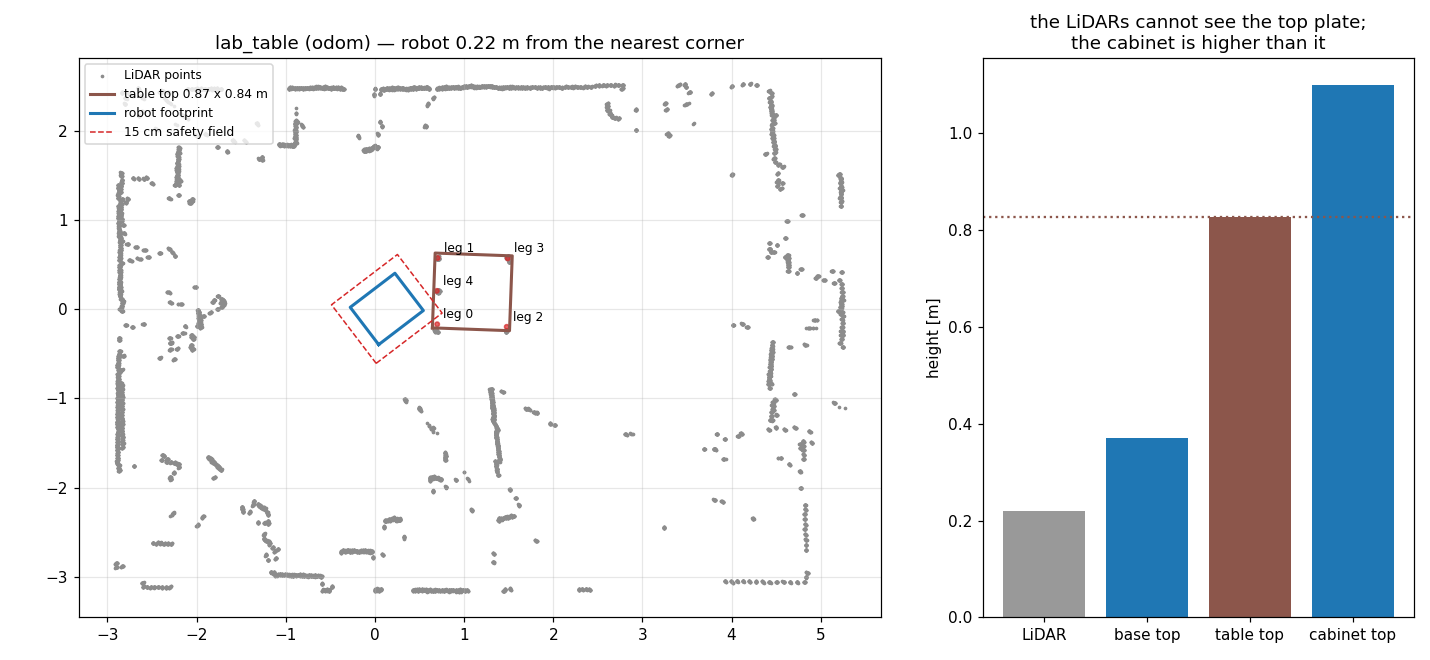
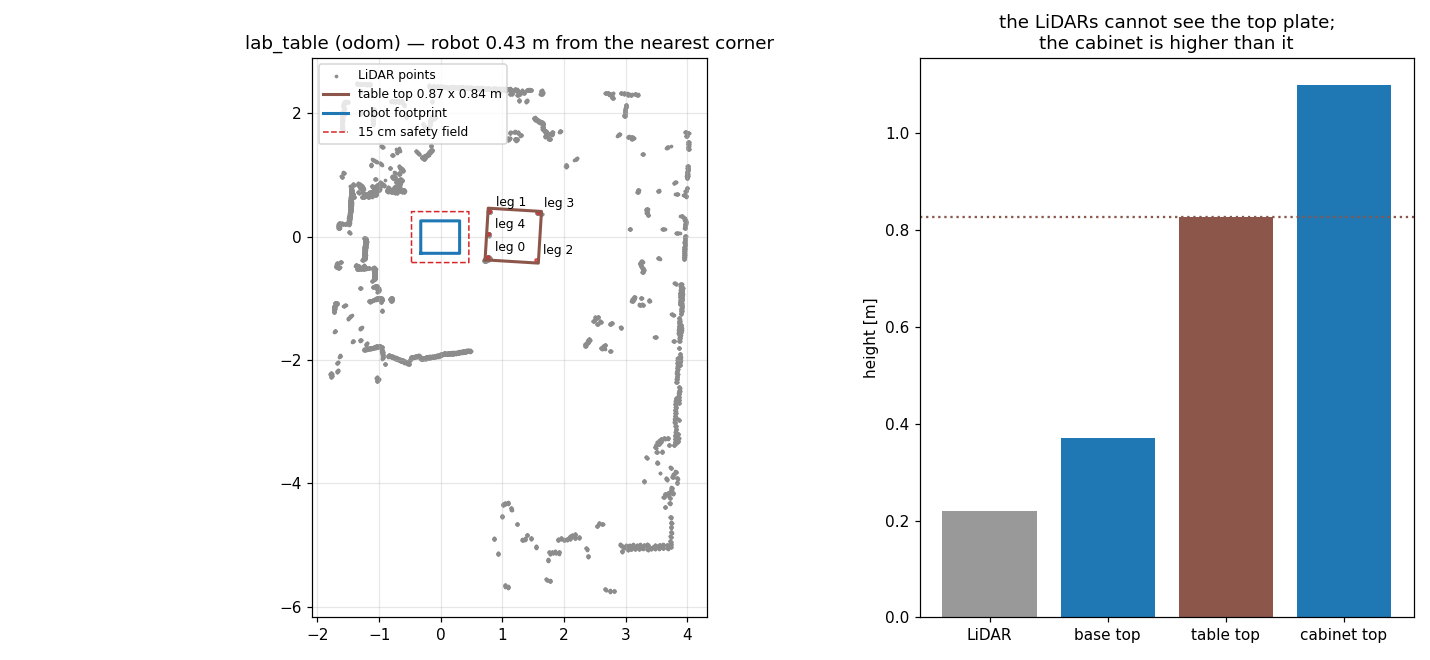
Explore the table from the launch, search sides on the move, plan once the motion is known
- active_perception_wbc (--approach move): the camera looks at the table from the start (centre from
  afar, swept across it when close); nothing found on arrival -> drive on to the next side, exploring;
  found while driving around -> plan from there; the grasp side is chosen once static/rolling is known,
  from the object's predicted position when the robot gets there
- detections fit the velocity also while the camera hardly turns (visibility task on the object)
- camera_only tool (MuJoCo): plate + post + D415 as in the photos
- lab_table: measured 2026-10-22

diff --git a/src/steve_wbc/steve_wbc/active_perception_wbc.py b/src/steve_wbc/steve_wbc/active_perception_wbc.py
@@ -163,6 +163,14 @@ REACH_LEAD = 3.0              # s  reach on the move: the arm starts this long b
 ORBIT_STATES = ("PRE_GRASP", "DESCEND", "GRASP", "AT_GRASP")   # states that keep tracking the base path
 PLAN_SPAN = 0.5               # s  --approach move: object tracked this long before the grasp is planned
 APPROACH_MIN = 0.05           # m  --approach move: base this far from the grasp side's stand-off -> straight path
+MOTION_WAIT = 3.0             # s  --approach move: plan at the latest this long after --plan_span even if the
+                              #    tracker has no motion estimate yet (normally it has: static or rolling)
+MOVE_GRASP_ETA = 2.0          # s  --approach move: from the end of the base path to the grasp (arm on the move)
+# exploration (--approach move, nothing seen yet): the camera looks at the table from the launch on — its
+# centre from afar (the whole table in view), swept across it once the base is this close to the centre
+EXPLORE_NEAR = 1.4            # m
+EXPLORE_PERIOD = 8.0          # s  one sweep left-right-left (arm speed limits on the robot: 0.3 rad/s)
+CAM_STILL_W = 0.15            # rad/s camera turning slower than this: detections may fit the velocity
 # states in which the robot looks / waits instead of going for the object (--approach move avoids them)
 STOP_STATES = ("SETTLE_ARM", "COARSE_DETECT", "VGN_SCAN", "VGN_WAIT")
 
@@ -950,6 +958,7 @@ class ObjectTracker:
         self.p, self.v, self.t = None, np.zeros(3), None
         self.hist = []
         self.rejected = 0
+        self.fitted = False  # the velocity has been fitted at least once (static or moving is known)
 
     def update(self, p, t, still=True):
         """Add a detection. `still`: taken while the camera was (nearly) still. Every detection
@@ -959,7 +968,7 @@ class ObjectTracker:
         if self.t is not None and t - self.t > self.WINDOW:
             # not confirmed for a whole fit window (occluded, or the robot drove elsewhere):
             # the old estimate is stale, start a fresh track instead of gating against it
-            self.p, self.v, self.hist = None, np.zeros(3), []
+            self.p, self.v, self.hist, self.fitted = None, np.zeros(3), [], False
         if self.p is not None and np.linalg.norm(p - self.predict(t)) > self.GATE:
             self.rejected += 1
             return False
@@ -987,6 +996,7 @@ class ObjectTracker:
             elif n > self.V_MAX:
                 v *= self.V_MAX / n
             self.v = v
+            self.fitted = True
         # position: all detections, moved to time t with the current velocity (robust median)
         self.p = np.median(P - np.outer(T - t, self.v), axis=0)
         self.t = t
@@ -1381,7 +1391,26 @@ class ActivePerceptionWBC:
             return self.tracker.predict(self.t)
         if self.glimpse is not None and self.t - self.glimpse[1] < 2.0:
             return self.glimpse[0]
-        return None
+        return self._explore_point()
+
+    def _explore_point(self):
+        """--approach move, nothing seen yet (from the launch on): where the camera looks — the table top, its
+        centre from afar (the whole table in view), swept across the table once the base is within
+        EXPLORE_NEAR of the centre (the D415 sees ~0.8 m of it at 1 m)."""
+        rect = self.w.support_rect()
+        if rect is None or self.a.approach != "move" or self.state not in ("DRIVE", "REPOSITION") or self.placed:
+            return None
+        lo, hi = np.asarray(rect[0], float), np.asarray(rect[1], float)
+        top = self.w.support_top_z()
+        c = 0.5 * (lo + hi)
+        d = c - self.st.base[:2]
+        dist = float(np.linalg.norm(d))
+        p = np.array([c[0], c[1], top if top is not None else 0.8])
+        if 1e-6 < dist < EXPLORE_NEAR:
+            across = np.array([-d[1], d[0]]) / dist
+            half = max(0.5 * float(np.abs(across) @ (hi - lo)) - 0.10, 0.0)
+            p[:2] += across * half * np.sin(2.0 * np.pi * self.t / EXPLORE_PERIOD)
+        return p
 
     def _camera_ready(self, still_for=None):
         """Visibility task on: camera on the object (< VIS_READY_DEG) and, with still_for, the arm
@@ -1432,8 +1461,12 @@ class ActivePerceptionWBC:
 
     def _plan_ready(self):
         """--approach move: plan the grasp now (while driving) — object tracked for --plan_span, table known."""
-        return (self.a.approach == "move" and not self.placed and not self.watching and self._can_plan()
-                and self._tracked() and self.t - self.tracker.hist[0][0] >= self.a.plan_span)
+        if not (self.a.approach == "move" and not self.placed and not self.watching and self._can_plan()
+                and self._tracked()):
+            return False
+        span = self.t - self.tracker.hist[0][0]
+        # the side is chosen from where the object WILL be: wait until static / rolling is known
+        return span >= self.a.plan_span and (self.tracker.fitted or span >= self.a.plan_span + MOTION_WAIT)
 
     def _base_speed_along(self, direction):
         """Current base speed (last command, world frame) along a world xy direction (>= 0)."""
@@ -1505,6 +1538,10 @@ class ActivePerceptionWBC:
         # the viewpoint bias changes when the arm swings the camera, hardly when the base
         # translates it (e.g. while driving up to the table)
         still = np.max(np.abs(self.u_prev[3:])) < TRACK_STILL_DQ
+        if not still and self.cam_ok and self.a.approach == "move":
+            # the visibility task keeps the camera on the object while the base drives: the joints move,
+            # the view hardly turns -> no swing bias, the detection may fit the velocity
+            still = float(np.linalg.norm(self.kin.camera(self.st.base[2])[3] @ self.u_prev)) < CAM_STILL_W
         if self.tracker.update(p, self.t, still):
             self.last_seen = self.t
             self.n_seen[cam] = self.n_seen.get(cam, 0) + 1
@@ -1546,7 +1583,8 @@ class ActivePerceptionWBC:
                 if self.state != "DRIVE":
                     return None, BaseReference(st.base.copy(), np.array([speed * np.cos(yaw), speed * np.sin(yaw), 0.0])), \
                         DRIVE_POSE
-            if speed > 0.0 and front <= a.d_safe_base + LIDAR_SLOW_MARGIN and self._reach_from_drive(st):
+            if (speed > 0.0 and front <= a.d_safe_base + LIDAR_SLOW_MARGIN
+                    and (a.approach == "stop" or not self._can_plan()) and self._reach_from_drive(st)):
                 # reach on the move: plan the grasp while still rolling up to the table, no stop + settle;
                 # PRE_GRASP leaves the base to the QP (it brakes within its acceleration limit)
                 self.base_hold = st.base.copy()
@@ -1561,6 +1599,13 @@ class ActivePerceptionWBC:
                 self._begin_grasp_planning(st, f"LiDAR {front:.3f} m | object tracked since t={self.tracker.hist[0][0]:.1f} s")
                 if self.state != "DRIVE":
                     return None, BaseReference(st.base.copy(), np.zeros(3)), DRIVE_POSE
+            if ((speed == 0.0 or travelled >= a.max_drive) and front >= a.d_safe_base - LIDAR_EMERGENCY_MARGIN
+                    and a.approach == "move" and not self.placed and not self._tracked() and self._can_plan()):
+                # --approach move: the camera explored the table on the way and saw nothing -> no stop-and-sweep,
+                # drive on around the table to the next side, exploring
+                self.base_hold = st.base.copy()
+                if self._search_next_side(st):
+                    return None, self.base_path.at(0.0)[0], DRIVE_POSE
             if speed == 0.0 or travelled >= a.max_drive:
                 self.base_hold, self.backup_start = st.base.copy(), st.base.copy()
                 why = f"LiDAR {front:.3f} m" if front <= stop_d else f"travelled {travelled:.2f} m"
@@ -1604,6 +1649,12 @@ class ActivePerceptionWBC:
                 self._begin_grasp_planning(st, f"object moving ({np.linalg.norm(self.tracker.v) * 100:.1f} cm/s) -> "
                                                "re-planning the approach to intercept it")
                 return None, BaseReference(st.base.copy(), np.zeros(3)), DRIVE_POSE
+            if move and not self.placed and self._plan_ready():
+                # found while driving around the table (searching): plan from here, on the move
+                self.base_path = []
+                self._begin_grasp_planning(st, f"object found while driving to the {self.side} side")
+                return None, (self.base_path.at(0.0)[0] if self.base_path else
+                              BaseReference(st.base.copy(), np.zeros(3))), DRIVE_POSE
             q_move = self._drive_vgn_views(st) if move and a.vgn_mode == "drive" else DRIVE_POSE
             if move and self.placed and ts >= self.base_path.T - a.reach_lead:
                 self._vgn_kick()
@@ -1617,6 +1668,12 @@ class ActivePerceptionWBC:
                     return None, ref, DRIVE_POSE
             if done and err < 0.02 and abs(wrap_angle(ref.pose[2] - st.base[2])) < 0.03:
                 self.base_hold, self.base_path = ref.pose.copy(), []
+                if move and not self.placed and not self._tracked() and not self.watching:
+                    # searching on the move: nothing from this side either -> the next one, or give up
+                    if self._search_next_side(st):
+                        return None, self.base_path.at(0.0)[0], DRIVE_POSE
+                    self._end_episode(f"object not found from the {', '.join(self.searched)} side(s)", failed=True)
+                    return None, BaseReference(self.base_hold, np.zeros(3)), DRIVE_POSE
                 self._enter("SETTLE_ARM", f"at the {self.side} side")
                 return None, BaseReference(self.base_hold, np.zeros(3)), DRIVE_POSE
             if ts > self.base_path.T + 30.0:
@@ -2344,13 +2401,17 @@ class ActivePerceptionWBC:
               + ("moving: intercept from here if reachable" if moving
                  else f"grasp from here ({here})" if preferred == here else f"grasp from the {preferred} side"))
         cands = []
+        move = self.a.approach == "move"
         for name, (n, yaw) in SIDES.items():
             if name in self.bad_sides:
                 continue
-            # where the object will be when the grasp from this side can start
-            eta = GRASP_ETA
+            # where the object will be when the grasp from this side can start (--approach move: the base
+            # path's duration + the reach on the move; a rolling object is predicted along its path)
+            eta = MOVE_GRASP_ETA if move else GRASP_ETA
             if name != here:
                 eta += self._ring_path(st.base, np.array([*obj[:2], yaw]), lo, hi)[1] / self._orbit_v()
+            elif move:
+                eta += float(np.linalg.norm(obj[:2] - st.base[:2])) / max(min(self.a.drive_speed, self.a.max_base_v), 1e-3)
             o = self.tracker.predict(self.t + eta)
             xy = np.clip(o[:2], lo, hi)
             xy = np.where(n != 0, np.where(n > 0, hi, lo) + n * standoff, xy)
